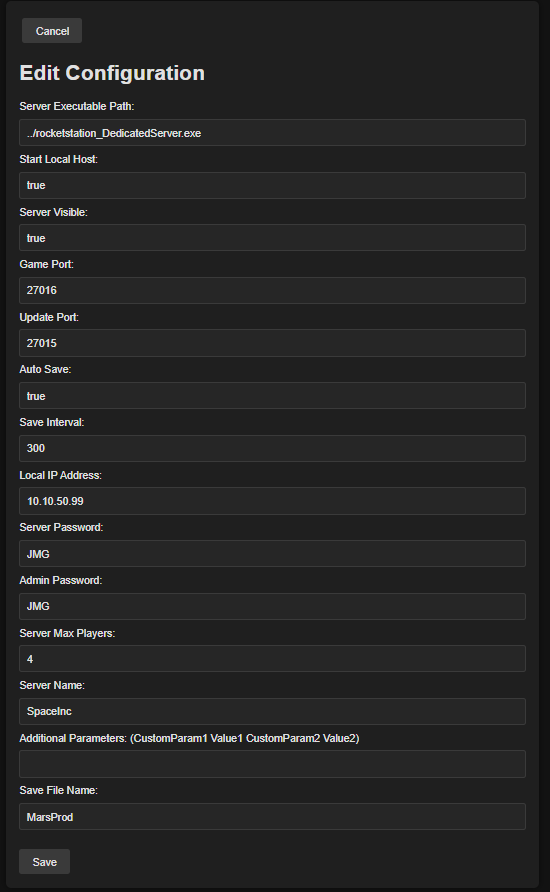
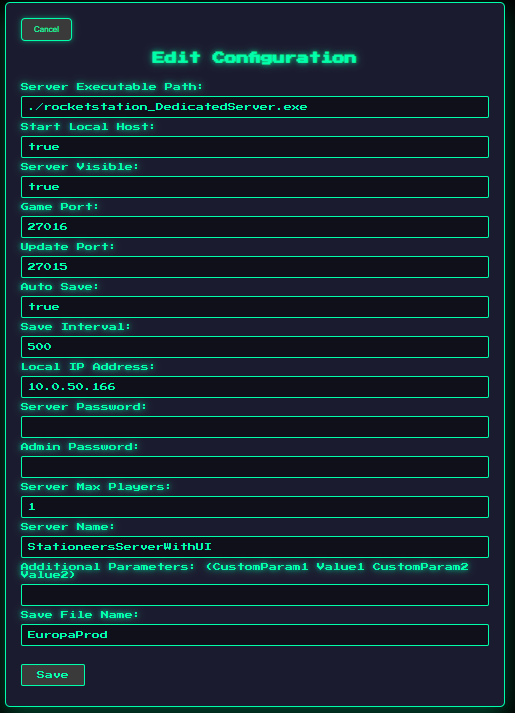
update images for 2.X

Changed region(s): [[0.0, 0.0, 0.9942, 1.0], [0.9631, 0.0, 0.9942, 0.0309]]

diff --git a/readme.md b/readme.md
@@ -12,8 +12,6 @@ Also I wanted my friends to be able to start, stop and manage the Server without
 DISCLAIMER: PUBLISHING THIS UI TO THE WEB SHOULD ONLY BE DONE BEHIND A SECURE AUTHENTICATION MECHANISM; THIS SHOULD NOT UNDER ANY CIRCUMSTANCES BE PORT FORWARDED STRAIGHT OUT!
 
 ## Features
-These images show the v1.1 UI and NOT the v2.3.0 UI.
-I will be updating the UI images soon™
 | UI Overview | Configuration | Backup Management |
 |:-----------:|:-------------:|:-----------------:|
 | ![UI Overview](media/UI-1.png) | ![Configuration](media/UI-2.png) | ![Backup Management](media/UI-3.png) |
